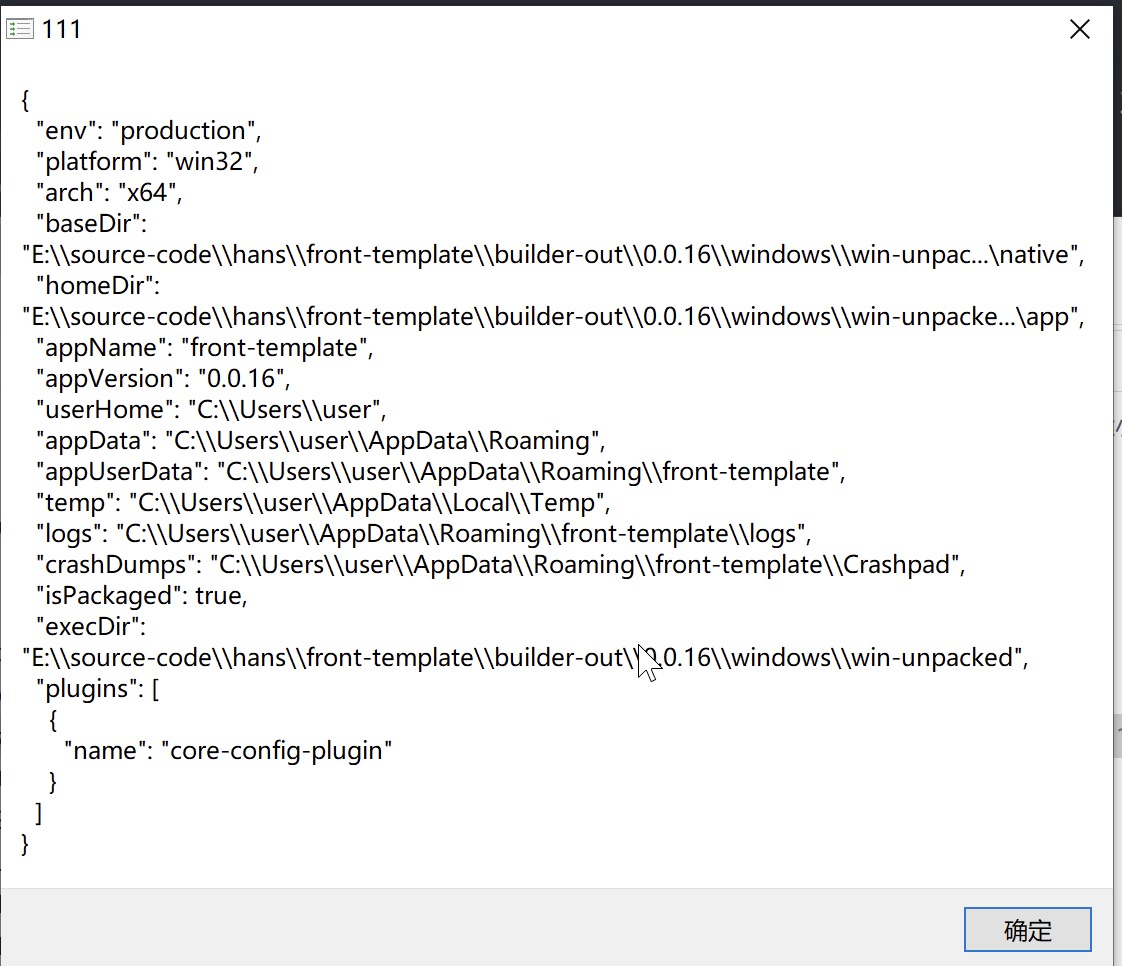
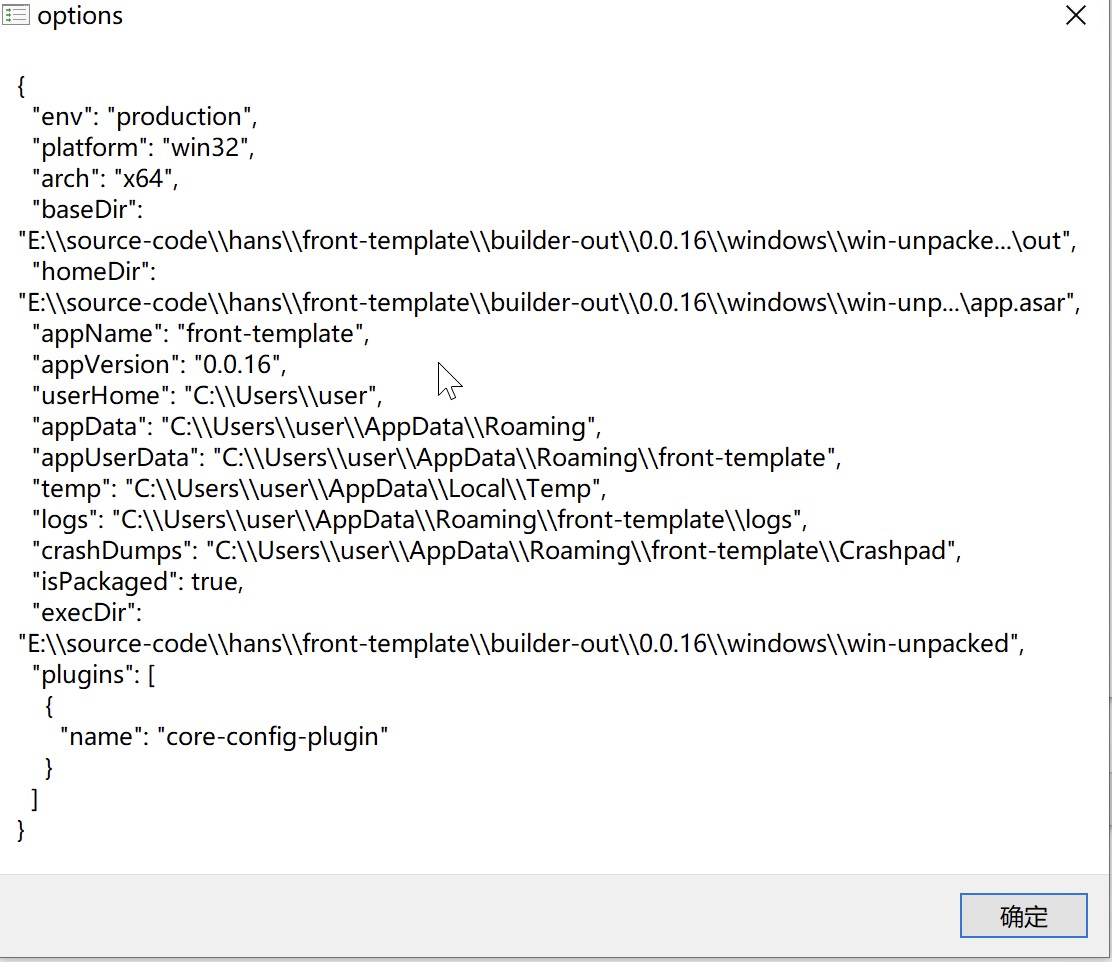
fix: 新增配置插件

Changed region(s): [[0.0, 0.0, 1.0, 1.0], [0.0, 0.842, 0.0306, 0.8732]]

diff --git a/native/plugins/core-config-plugin.ts b/native/plugins/core-config-plugin.ts
@@ -26,14 +26,15 @@ export default class CoreConfigPlugin implements CorePlugin {
     const CONFIG_FILE_NAME = `.config.${$core.options.appName}.yaml`
 
     /**
-     * 若是用户目录存在配置文件，则使用用户目录的配置文件，否则使用如软件统计目录的配置文件
-     * fixme: 可以应该保证冰点还原的配置路径是正确的
+     * 若是用户目录存在配置文件，则使用用户目录的配置文件，否则使用如软件同级目录的配置文件
+     * fixme: 可以应该保证冰点还原的配置路径是正确的，目前只考虑了window情况
      * @returns 配置文件路径
      */
     const getConfigFilePath = () => {
-      const { userHome, baseDir } = $core.options
-      if (fs.existsSync(path.join(baseDir, CONFIG_FILE_NAME))) {
-        return path.join(baseDir, CONFIG_FILE_NAME)
+      const { userHome, homeDir } = $core.options
+      // fix:测试
+      if (!fs.existsSync(path.join(homeDir, '../', CONFIG_FILE_NAME))) {
+        return path.join(homeDir, '../', CONFIG_FILE_NAME)
       }
       return path.join(userHome, CONFIG_FILE_NAME)
     }

diff --git a/native/core/index.ts b/native/core/index.ts
@@ -1,5 +1,5 @@
 import path from 'path'
-import { app, dialog } from 'electron'
+import { app } from 'electron'
 import debug from 'debug'
 import merge from 'lodash/merge'
 import { ApplicationConfig } from '../types/config'
@@ -119,13 +119,6 @@ class Core {
     }
     const { env } = process
     env.NODE_ENV = options.env
-    console.log(this.options)
-    app.whenReady().then(() => {
-      dialog.showMessageBoxSync({
-        title: 'options',
-        message: JSON.stringify(this.options, null, 2)
-      })
-    })
     this.debug('options:%j', this.options)
   }
 
